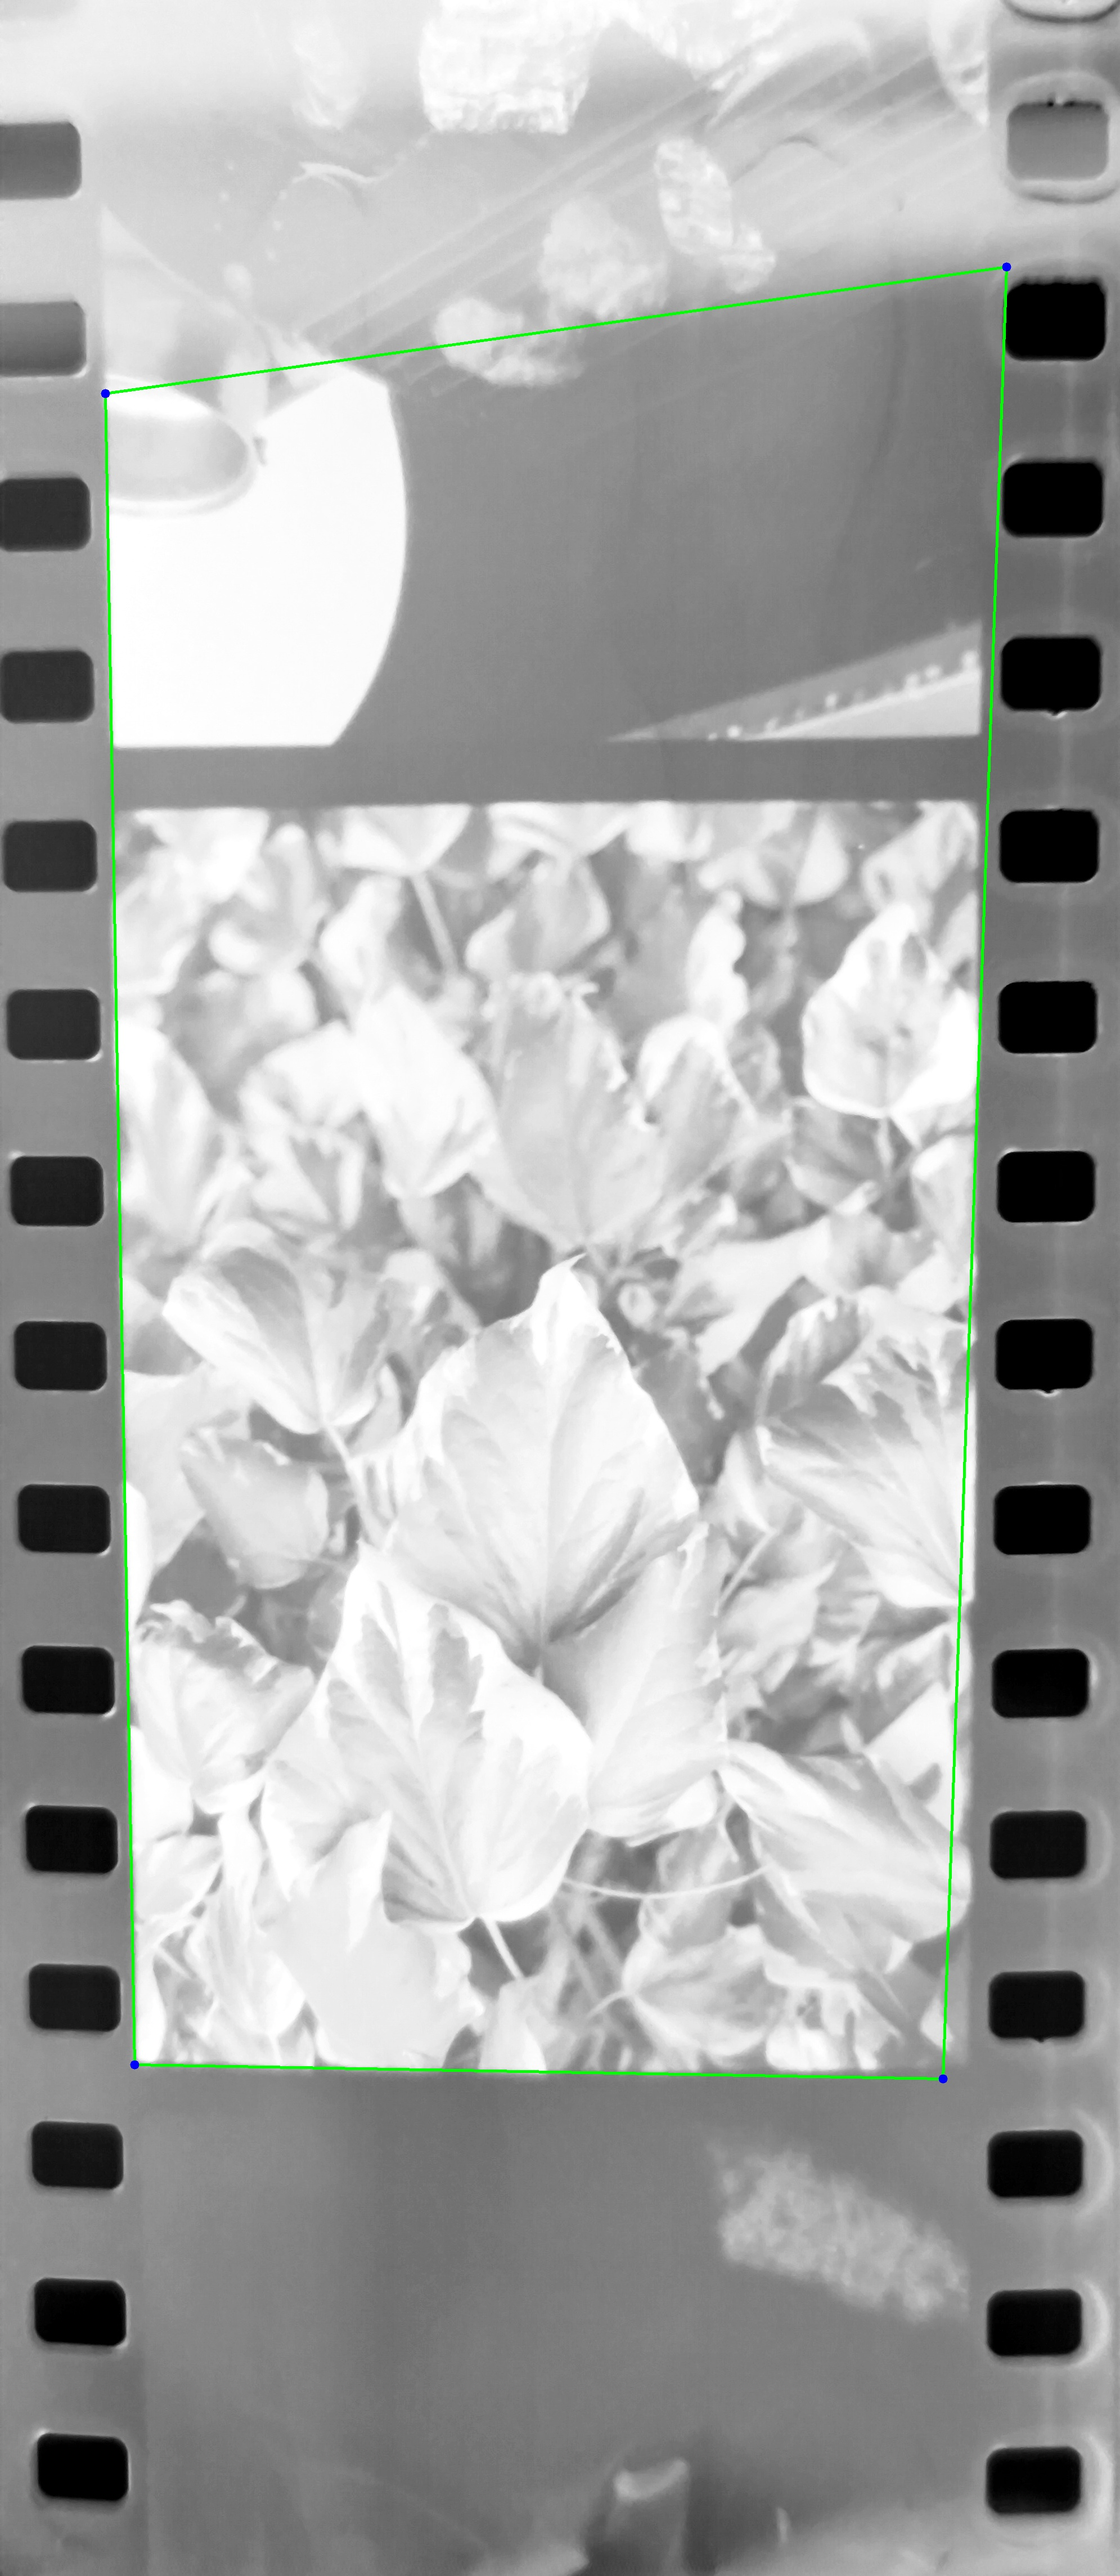
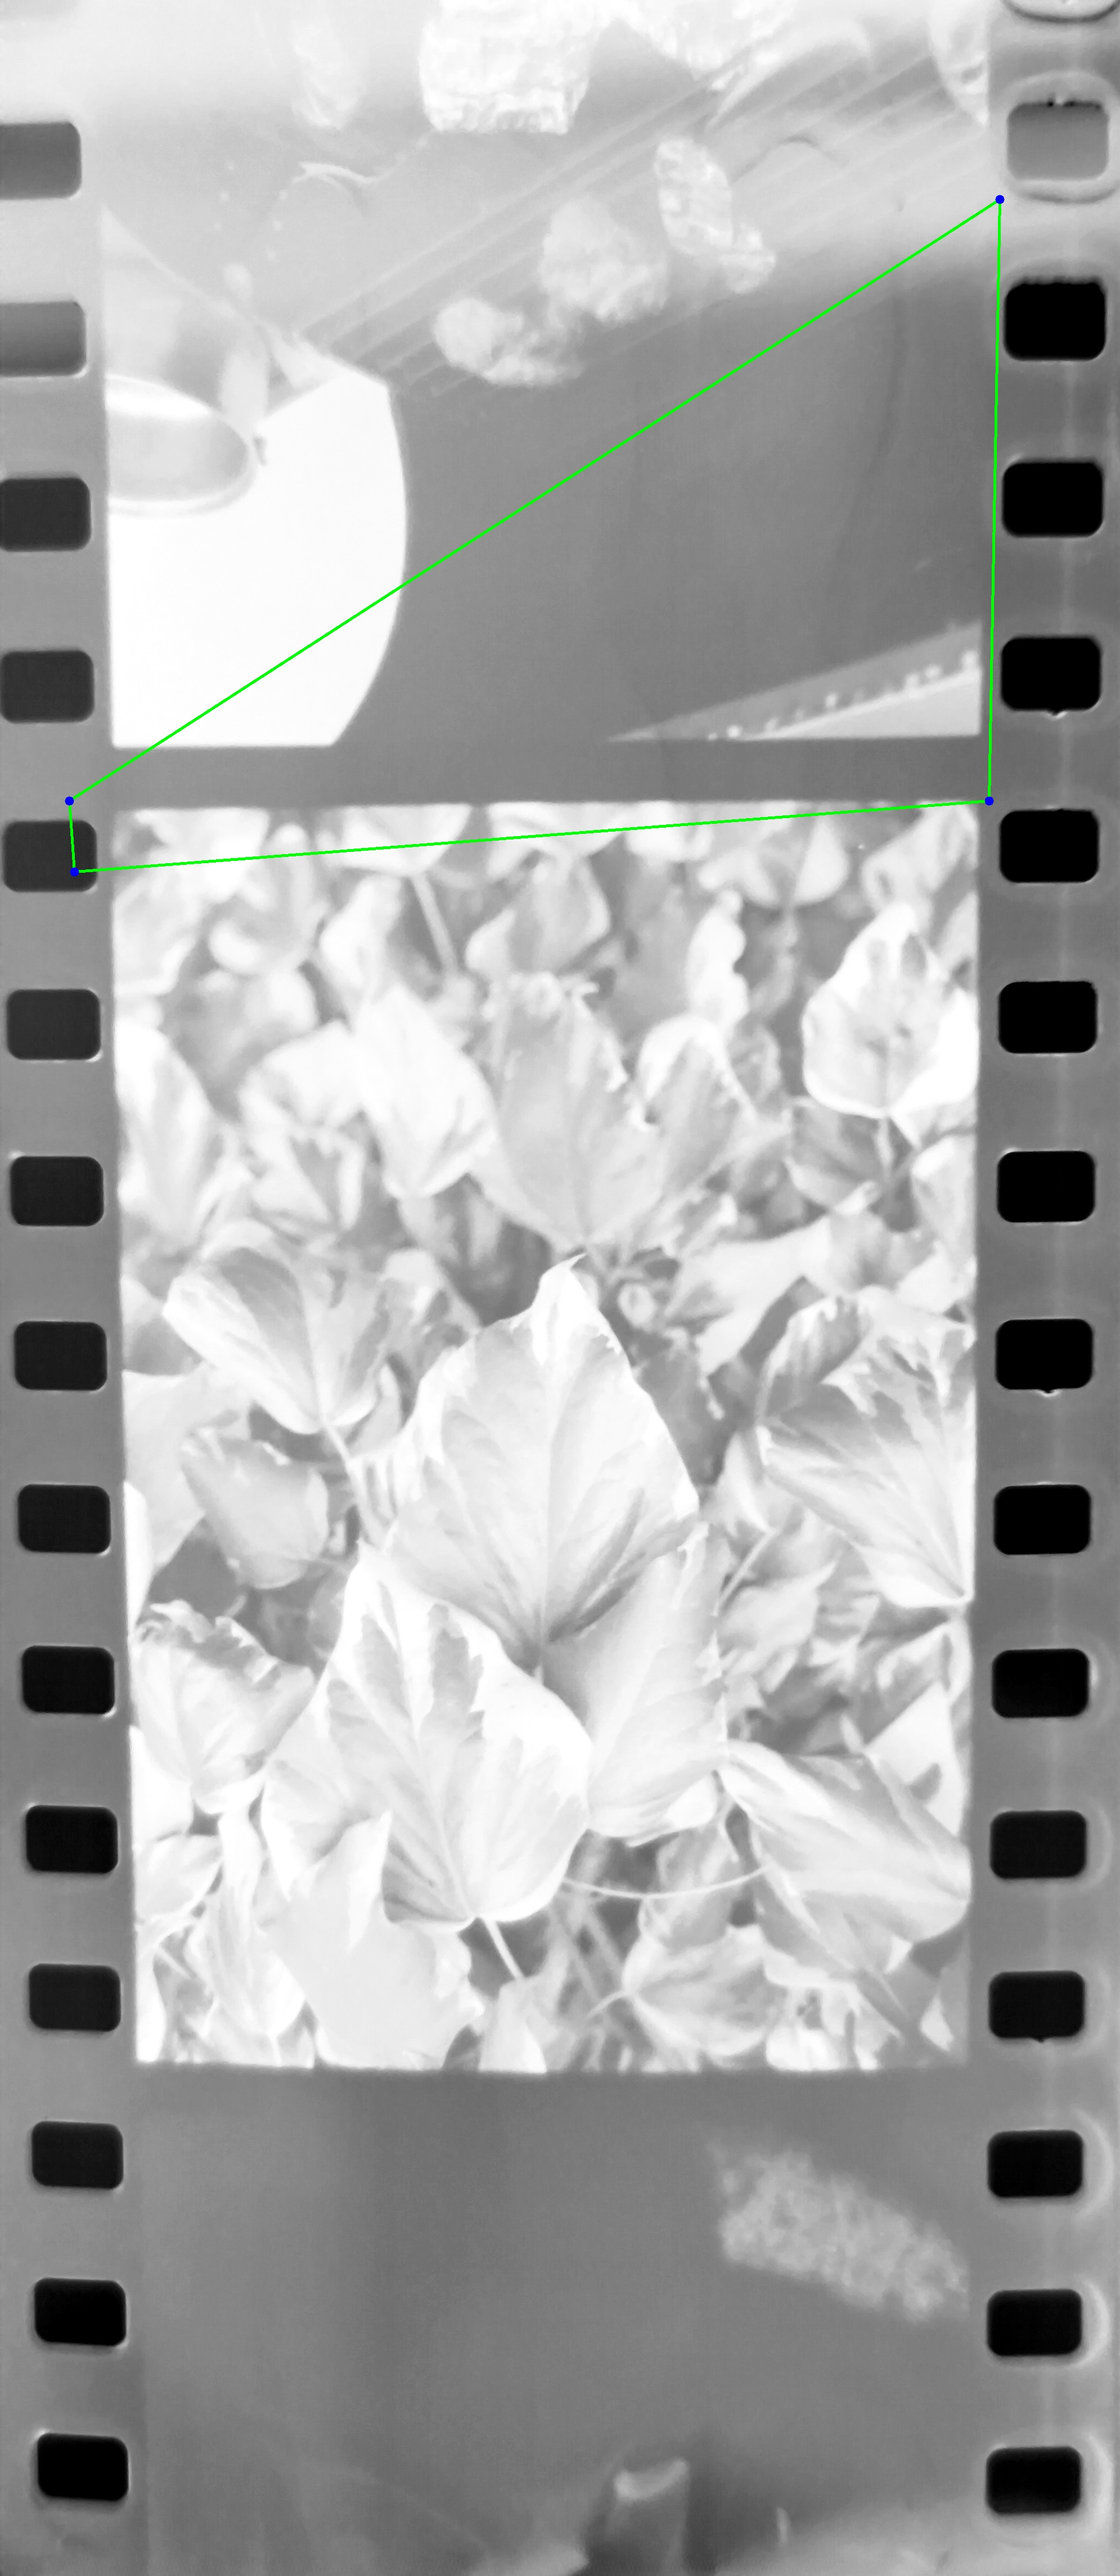
pdostawowe edytowanie zdjecia, kadrowania i negatyw, obsluga galerii lokalnej telefonu

diff --git a/FilmSegmentationTests/rect_seg_hough.py b/FilmSegmentationTests/rect_seg_hough.py
@@ -2,6 +2,69 @@ import cv2
 import numpy as np
 from itertools import combinations
 
+def calculate_line_length_in_image(rho, theta, img_width, img_height):
+    """
+    Oblicza długość odcinka linii (rho, theta) przecinającego obraz
+    
+    Args:
+        rho, theta: parametry linii z transformaty Hougha
+        img_width, img_height: wymiary obrazu
+    
+    Returns:
+        length: długość odcinka w pikselach
+    """
+    # Parametry linii: x*cos(theta) + y*sin(theta) = rho
+    cos_t = np.cos(theta)
+    sin_t = np.sin(theta)
+    
+    # Znajdź przecięcia z krawędziami obrazu
+    intersections = []
+    
+    # Lewa krawędź (x = 0)
+    if abs(sin_t) > 1e-6:
+        y = rho / sin_t
+        if 0 <= y <= img_height:
+            intersections.append((0, y))
+    
+    # Prawa krawędź (x = img_width)
+    if abs(sin_t) > 1e-6:
+        y = (rho - img_width * cos_t) / sin_t
+        if 0 <= y <= img_height:
+            intersections.append((img_width, y))
+    
+    # Górna krawędź (y = 0)
+    if abs(cos_t) > 1e-6:
+        x = rho / cos_t
+        if 0 <= x <= img_width:
+            intersections.append((x, 0))
+    
+    # Dolna krawędź (y = img_height)
+    if abs(cos_t) > 1e-6:
+        x = (rho - img_height * sin_t) / cos_t
+        if 0 <= x <= img_width:
+            intersections.append((x, img_height))
+    
+    # Usuń duplikaty (punkty bardzo blisko siebie)
+    unique_intersections = []
+    for point in intersections:
+        is_duplicate = False
+        for existing in unique_intersections:
+            if abs(point[0] - existing[0]) < 1 and abs(point[1] - existing[1]) < 1:
+                is_duplicate = True
+                break
+        if not is_duplicate:
+            unique_intersections.append(point)
+    
+    # Jeśli mamy 2 punkty, oblicz odległość
+    if len(unique_intersections) >= 2:
+        p1 = np.array(unique_intersections[0])
+        p2 = np.array(unique_intersections[1])
+        length = np.linalg.norm(p2 - p1)
+        return length
+    
+    return 0
+
+
 def detect_film_frame_hough(img, show_steps=True):
     """
     Wykrywa prostokąt klatki filmowej używając transformaty Hougha
@@ -25,36 +88,23 @@ def detect_film_frame_hough(img, show_steps=True):
         gray = img.copy()
     
 
-
-    norm = cv2.normalize(gray, None, 0, 255, cv2.NORM_MINMAX)
-
-    left_side_strip = norm[:, :int(gray.shape[1] * 0.1)]  # Lewy pasek (10% szerokości)
-
-    base_mask_value = np.median(left_side_strip)
-
-    treasholded = cv2.threshold(gray, base_mask_value , 255, cv2.THRESH_BINARY)
-    cv2.window('Thresholded', cv2.WINDOW_NORMAL)
-    cv2.imshow('Thresholded', cv2.resize(treasholded[1], (800, 600)))
-    
-
     # Redukcja szumu
-    blurred = cv2.GaussianBlur(treasholded[1], (3, 3), 0)
-    sharpend = blurred - cv2.Laplacian(blurred, cv2.CV_64F)
-    sharpened = cv2.convertScaleAbs(sharpend)
+    blurred = cv2.GaussianBlur(gray, (5, 5), 0)
+    
     
     # Wykrywanie krawędzi - ale tylko do pomocy dla Hougha
-    edges = cv2.Canny(blurred, 70, 130, apertureSize=3)
-    edges[:, :int(gray.shape[1] * 0.05)] = 0  # Wyłącz krawędzie w lewym pasku
-    edges[:, int(gray.shape[1] * 0.95):] = 0  # Wyłącz krawędzie w prawym pasku
-    edges[:int(gray.shape[0] * 0.05), :] = 0  # Wyłącz krawędzie w górnym pasku
-    edges[int(gray.shape[0] * 0.95):, :] = 0
+    edges = cv2.Canny(blurred, 60, 150, apertureSize=3)
+    edges[:, :int(blurred.shape[1] * 0.05)] = 0  # Wyłącz krawędzie w lewym pasku
+    edges[:, int(blurred.shape[1] * 0.95):] = 0  # Wyłącz krawędzie w prawym pasku
+    edges[:int(blurred.shape[0] * 0.05), :] = 0  # Wyłącz krawędzie w górnym pasku
+    edges[int(blurred.shape[0] * 0.95):, :] = 0
     
 
     # Transformata Hougha do wykrywania linii
     # rho: rozdzielczość w pikselach (1 piksel)
     # theta: rozdzielczość kąta (1 stopień = pi/180)
     # threshold: minimalna liczba punktów przecięcia
-    lines = cv2.HoughLines(edges, rho=2, theta=np.pi/180, threshold=200)
+    lines = cv2.HoughLines(edges, rho=1, theta=np.pi/180, threshold=100)
     
     if lines is None:
         print("✗ Nie wykryto żadnych linii")
@@ -63,16 +113,27 @@ def detect_film_frame_hough(img, show_steps=True):
     # Filtruj linie - szukamy linii poziomych i pionowych
     horizontal_lines = []
     vertical_lines = []
+    delta = np.pi / 180 * 3  # Tolerancja 3 stopnie
     
+    img_height, img_width = img.shape[:2]
+    min_length_ratio = 0.4  # Minimalna długość linii (60% rozmiaru obrazu)
+
     for line in lines:
         rho, theta = line[0]
         
+        # Oblicz długość linii w obrazie
+        line_length = calculate_line_length_in_image(rho, theta, img_width, img_height)
+        
         # Linie poziome: theta ≈ 0° lub ≈ 180°
-        if theta < np.pi/4 or theta > 3*np.pi/4:
-            horizontal_lines.append((rho, theta))
+        if theta < np.pi/4+delta or theta > 3*np.pi/4+delta:
+            # Sprawdź czy linia jest wystarczająco długa (min 60% szerokości)
+            if line_length >= min_length_ratio * img_width:
+                horizontal_lines.append((rho, theta))
         # Linie pionowe: theta ≈ 90°
         else:
-            vertical_lines.append((rho, theta))
+            # Sprawdź czy linia jest wystarczająco długa (min 60% wysokości)
+            if line_length >= min_length_ratio * img_height:
+                vertical_lines.append((rho, theta))
     
     print(f"Znaleziono {len(horizontal_lines)} linii poziomych i {len(vertical_lines)} linii pionowych")
     
@@ -193,6 +254,7 @@ def find_rectangle_from_lines(horizontal_lines, vertical_lines, img_shape):
     
     # Spróbuj różnych kombinacji
     for h_pair in combinations(range(len(horizontal_lines)), 2):
+        #print(f"pozostało {len(horizontal_lines) - h_pair[1]} poziomych i {len(vertical_lines)} pionowych")
         for v_pair in combinations(range(len(vertical_lines)), 2):
             h1, h2 = horizontal_lines[h_pair[0]], horizontal_lines[h_pair[1]]
             v1, v2 = vertical_lines[v_pair[0]], vertical_lines[v_pair[1]]
